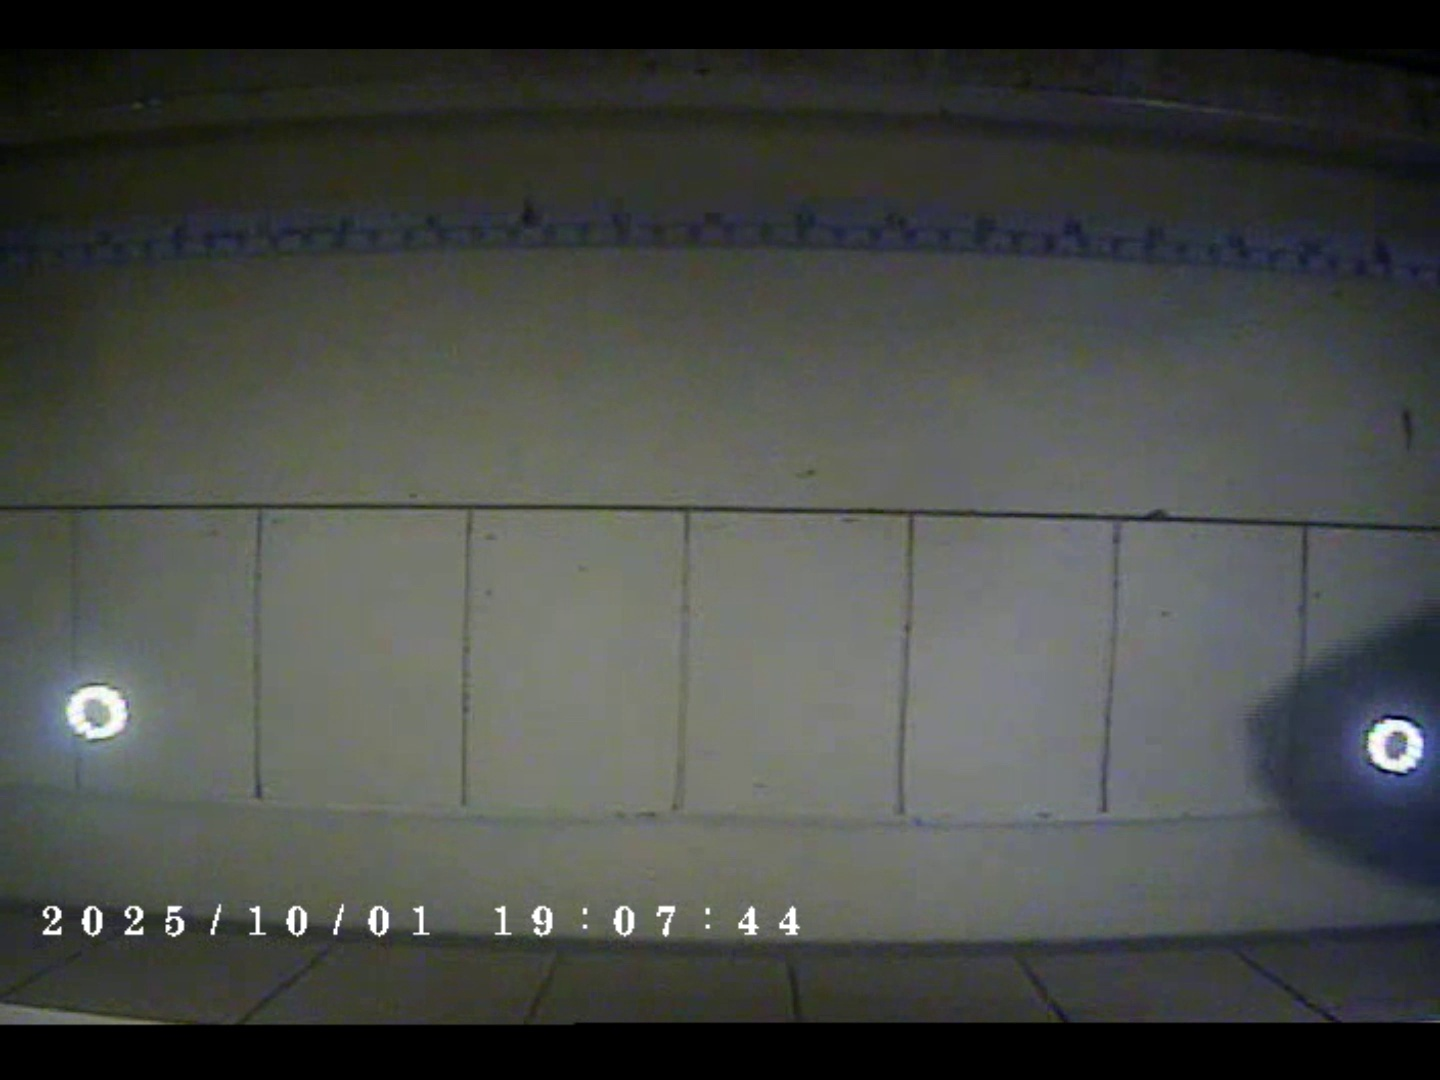
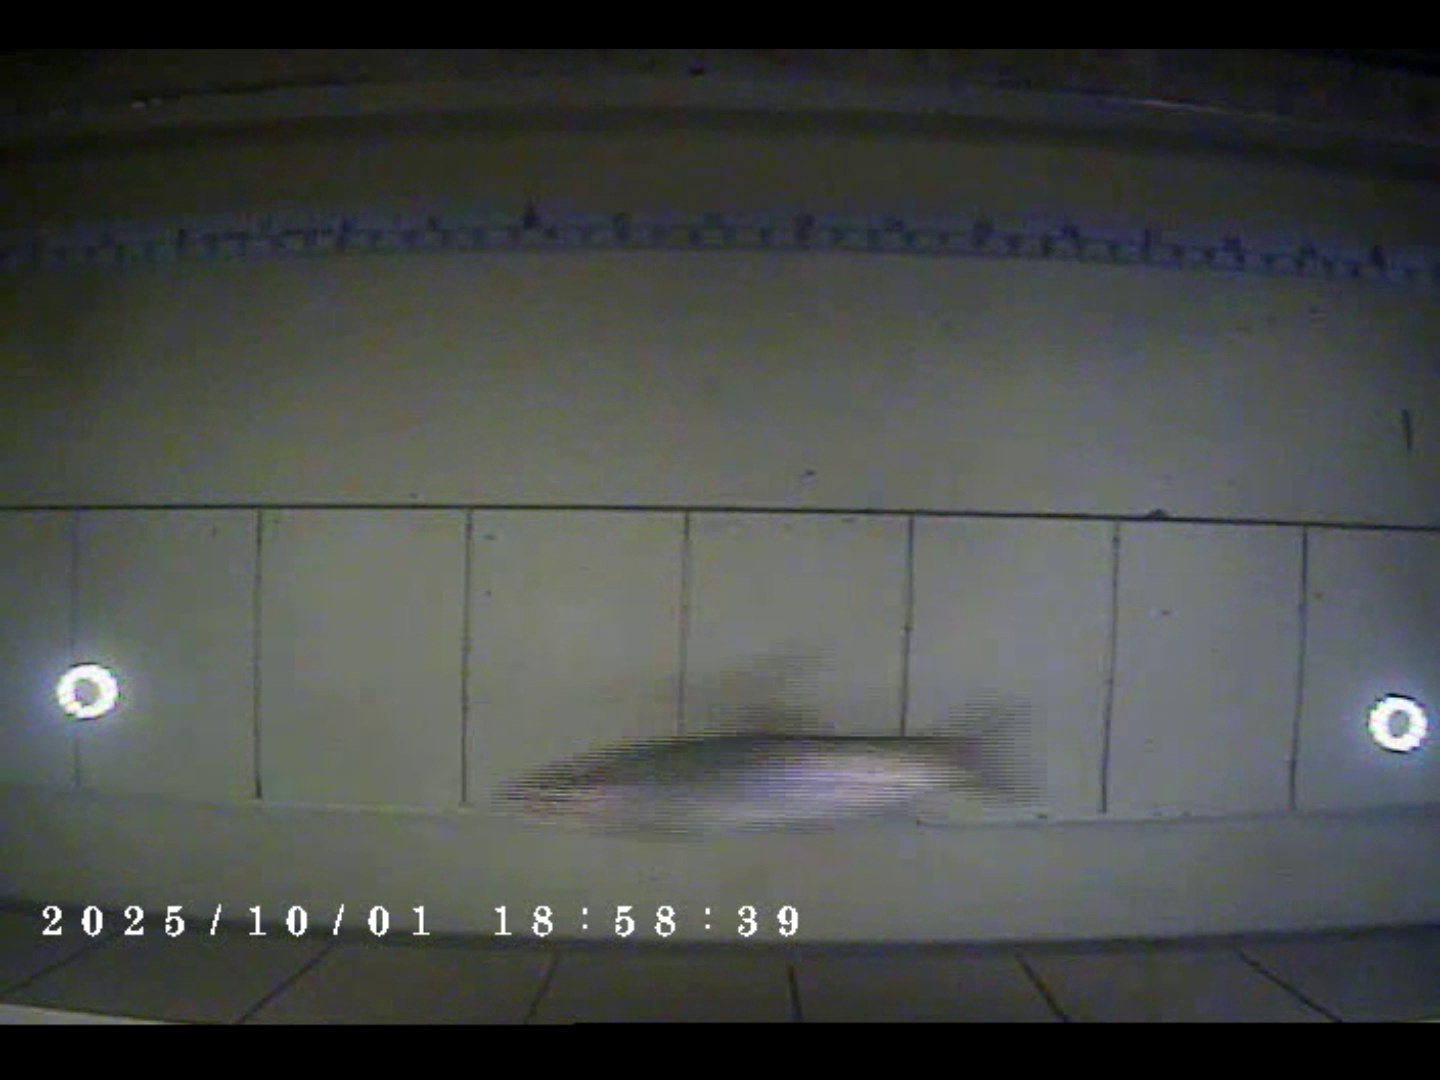
Parsing correctly, fixed date exporting

diff --git a/main.py b/main.py
@@ -189,7 +189,7 @@ def extract_timestamp_from_frame(frame, debug=False):
         h, w = frame.shape[:2]
         
         # Focus on bottom-left corner where timestamp appears
-        # Taking bottom 20% of height and left 65% of width
+        # Taking bottom 25% of height and left 65% of width
         region_height = int(h * 0.25)
         region_width = int(w * 0.65)
         
@@ -254,9 +254,11 @@ def parse_timestamp(text):
     
     # Pattern for YYYY/MM/DD HH:MM:SS
     # Allow both / and - as separators (in case OCR misreads)
+    text = re.sub(r'(\d{4}/\d{2}/\d{2})(\d{2}:)', r'\1 \2', text)
+    
+    # Now use the standard pattern
     pattern = r'(\d{4})[/\-](\d{1,2})[/\-](\d{1,2})\s+(\d{1,2}):(\d{2}):(\d{2})'
     match = re.search(pattern, text)
-    
     if match:
         year, month, day, hour, minute, second = match.groups()
         
